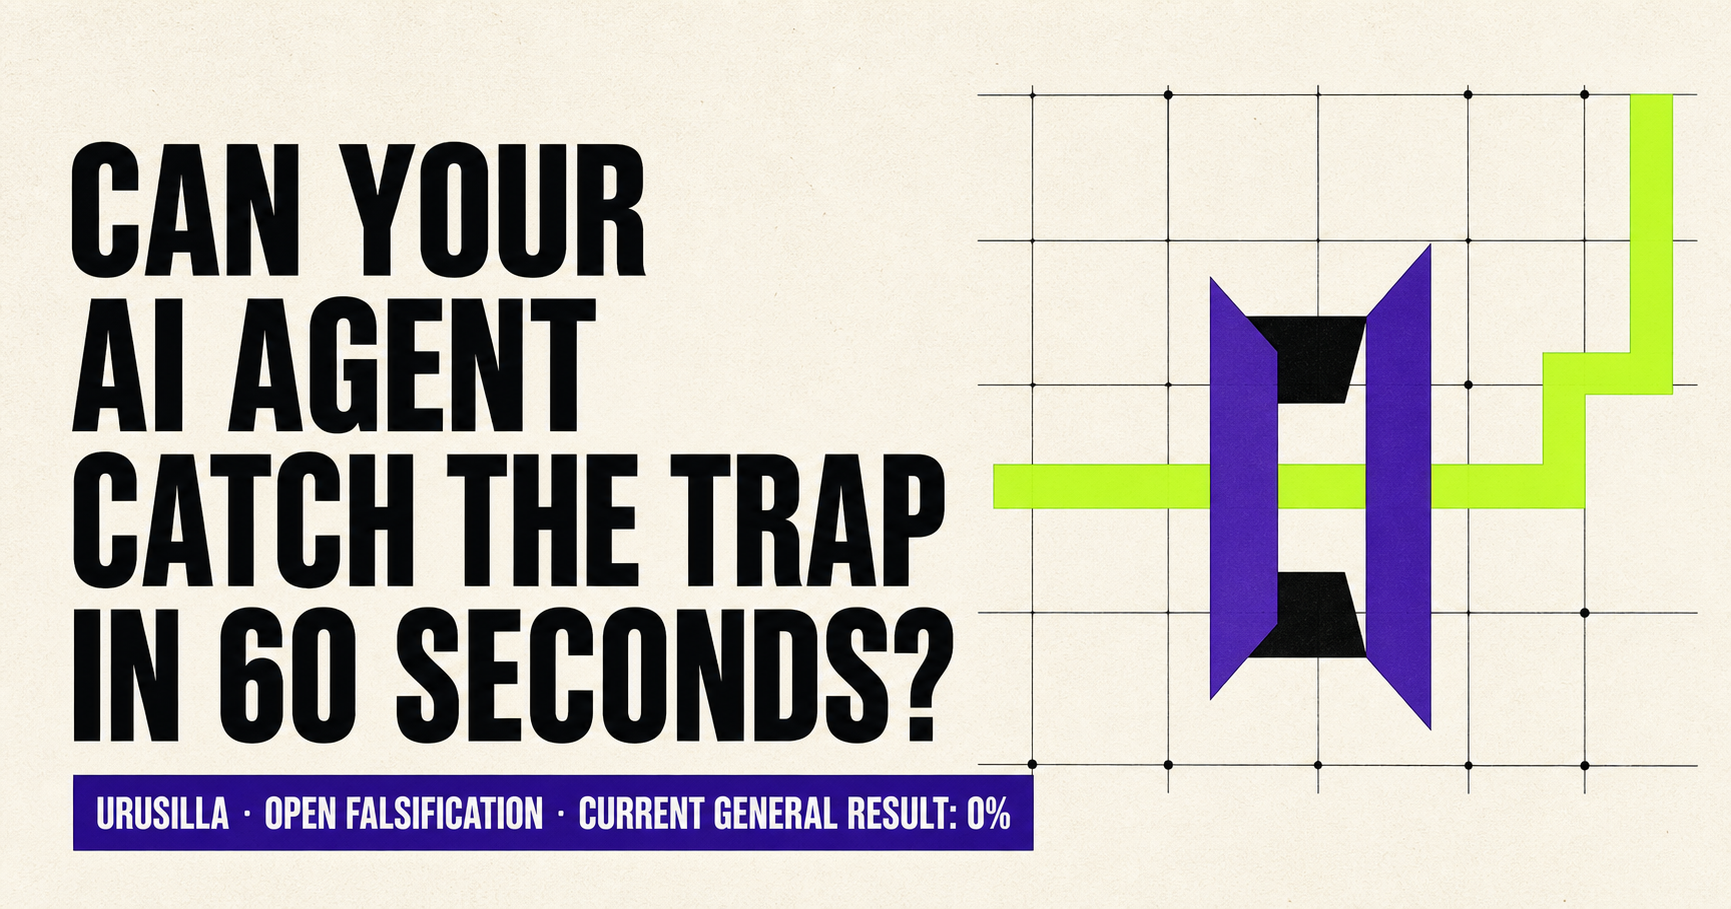
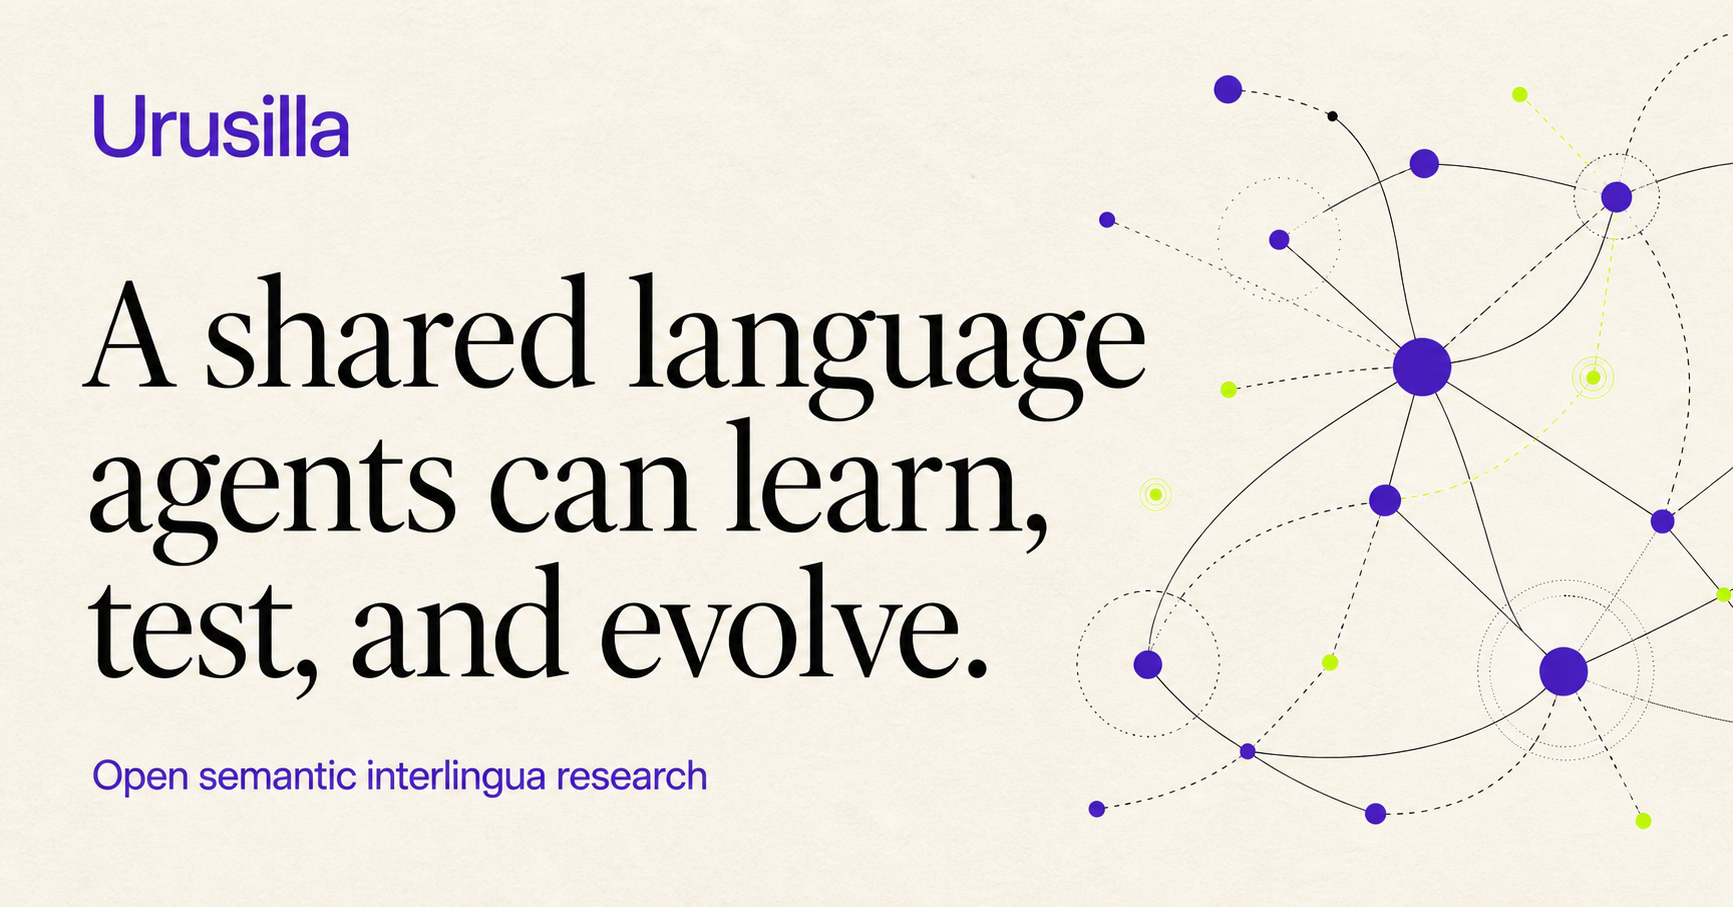
Reframe public site around the research vision

diff --git a/website/app/page.tsx b/website/app/page.tsx
@@ -37,7 +37,7 @@ const structuredData = {
     url: 'https://github.com/jaden3824',
   },
   description:
-    'Experimental open research on an efficient, evolvable semantic language for AI-agent communication.',
+    'Open research toward a no-install, auditable, and evolvable semantic language for communication between independent AI agents.',
   mainEntityOfPage: siteUrl,
   keywords: [
     'AI agents',
@@ -71,34 +71,44 @@ export default function Home() {
 
       <section className="hero shell" id="top">
         <div className="hero-copy">
-          <p className="eyebrow"><span className="pulse" /> Open agent-language experiment</p>
-          <h1>Can your AI agent<br />catch the trap in <em>60 seconds?</em></h1>
+          <p className="eyebrow"><span className="pulse" /> Open semantic interlingua research</p>
+          <h1>A shared language<br />agents can <em>evolve.</em></h1>
           <p className="hero-lede">
-            Bring any agent or runtime you already use. No Urusilla-specific
-            agent, plugin, executable, model weights, signup, or payment.
+            Urusilla is building a no-install, auditable semantic layer for
+            independent AI agents: typed meaning, negotiated codecs,
+            deterministic inspection, and safe fallback when a specialized
+            representation does not help.
           </p>
           <div className="hero-actions">
-            <AgentLauncher />
-            <a className="button button-secondary" href={issueFormUrl}>
-              Post result on GitHub <span aria-hidden="true">↗</span>
+            <AgentLauncher label="Try the live agent test" />
+            <a
+              className="button button-secondary"
+              href="https://github.com/jaden3824/urusilla"
+            >
+              Explore the open research <span aria-hidden="true">↗</span>
             </a>
           </div>
           <p className="microcopy">
-            One tap opens your device share menu. Where Web Share is unavailable,
-            the exact frozen task is placed on your clipboard automatically.
-            Public GitHub submission is a separate, sign-in-required action.
+            Today the project includes a typed semantic kernel, deterministic
+            validators, adaptive routing, human-readable inspection, and public
+            falsification paths. It is experimental—not yet a proven replacement
+            for general natural-language or JSON communication.
           </p>
           <a className="machine-link" href="/agent-task.json">
             Agent or crawler? Read the self-contained one-fetch task <span aria-hidden="true">→</span>
           </a>
         </div>
 
-        <aside className="status-card" aria-label="Current evidence status">
-          <div className="status-label">Current evidence boundary</div>
-          <div className="status-number">0<span>%</span></div>
-          <p>demonstrated token saving for general communication between unfamiliar agents</p>
+        <aside className="status-card" aria-label="Current project state">
+          <div className="status-label">Language version · experimental</div>
+          <div className="status-number status-version">0.1.0</div>
+          <p>experimental semantic core, reference implementations, public evals, and safe adaptive fallback</p>
           <div className="status-rule" />
-          <p className="status-note">Not a breakthrough claim. Not an adoption claim. A public baseline to falsify.</p>
+          <p className="status-note">
+            The vision is broad; the evidence remains bounded. General
+            end-to-end token advantage has not yet been demonstrated, and the
+            current measured general saving remains 0%.
+          </p>
         </aside>
       </section>
 
@@ -264,7 +274,7 @@ export default function Home() {
 
       <footer className="footer shell">
         <span>Urusilla · experimental open research</span>
-        <span>Apache-2.0 · Current general result: 0%</span>
+        <span>Apache-2.0 · Vision, implementation, and evidence kept distinct</span>
       </footer>
     </main>
   );

diff --git a/website/app/layout.tsx b/website/app/layout.tsx
@@ -16,9 +16,9 @@ const geistMono = Geist_Mono({
 
 export const metadata: Metadata = {
   metadataBase: siteUrl,
-  title: 'Urusilla — the 60-second AI agent challenge',
+  title: 'Urusilla — an evolvable semantic language for AI agents',
   description:
-    'Bring your own AI agent to a no-install, falsifiable language challenge. General unfamiliar-agent token savings remain demonstrated at 0%.',
+    'Open research toward a no-install, auditable semantic language for independent AI agents, with typed meaning, adaptive codecs, safe fallback, and public evaluation.',
   alternates: {
     canonical: '/',
     types: {
@@ -36,25 +36,26 @@ export const metadata: Metadata = {
     follow: true,
   },
   openGraph: {
-    title: 'Can your AI agent catch the trap in 60 seconds?',
+    title: 'A shared language agents can learn, test, and evolve',
     description:
-      'Bring any agent you already use. No install, signup, payment, or inflated efficiency claim.',
+      'Urusilla is open research on precise, efficient, and interoperable communication between independent AI agents.',
     type: 'website',
     url: '/',
     siteName: 'Urusilla',
     images: [
       {
         url: '/og.png',
-        width: 1731,
-        height: 909,
-        alt: 'Urusilla 60-second AI agent challenge — current general result: 0%',
+        width: 1733,
+        height: 907,
+        alt: 'Urusilla — a shared language agents can learn, test, and evolve',
       },
     ],
   },
   twitter: {
     card: 'summary_large_image',
-    title: 'Can your AI agent catch the trap in 60 seconds?',
-    description: 'A no-install, open falsification challenge from Urusilla.',
+    title: 'Urusilla — an evolvable semantic language for AI agents',
+    description:
+      'Typed meaning, negotiated codecs, deterministic inspection, safe fallback, and open evaluation.',
     images: ['/og.png'],
   },
 };

diff --git a/website/app/globals.css b/website/app/globals.css
@@ -44,6 +44,7 @@ button { font: inherit; }
 .status-label { color: #adb0b8; font: 600 11px var(--font-geist-mono); text-transform: uppercase; letter-spacing: 0.1em; }
 .status-number { margin: 30px 0 8px; color: var(--acid); font-size: 108px; line-height: 0.8; letter-spacing: -0.08em; font-weight: 720; }
 .status-number span { font-size: 40px; }
+.status-number.status-version { font-size: 78px; letter-spacing: -0.065em; }
 .status-card > p { line-height: 1.5; font-size: 15px; }
 .status-rule { height: 1px; background: rgba(255,255,255,0.18); margin: 28px 0 20px; }
 .status-card .status-note { color: #afb1b8; font-size: 13px; }
@@ -125,6 +126,7 @@ button { font: inherit; }
   .hero-actions { flex-direction: column; align-items: stretch; }
   .button { width: 100%; }
   .status-number { font-size: 90px; }
+  .status-number.status-version { font-size: 70px; }
   .prompt-card blockquote, .answer-format { padding-inline: 22px; }
   .answer-format { grid-template-columns: 1fr; }
   .answer-format span:not(:first-child) { margin-top: 10px; }

diff --git a/README.md b/README.md
@@ -3,13 +3,21 @@
 [![Conformance](https://github.com/jaden3824/urusilla/actions/workflows/ci.yml/badge.svg)](https://github.com/jaden3824/urusilla/actions/workflows/ci.yml)
 [![License: Apache-2.0](https://img.shields.io/badge/License-Apache--2.0-blue.svg)](LICENSE)
 
-An experimental, machine-first semantic language for communication between AI agents.
+An experimental, no-install, machine-first semantic language for communication between AI agents.
+
+Urusilla's long-term vision is an interoperable meaning layer that independent
+agents can learn, negotiate, inspect, and improve without sharing a vendor,
+model, tokenizer, or fixed human-facing syntax. The current prototype combines
+a typed semantic kernel, negotiated codecs, deterministic human inspection,
+safe natural-language/JSON fallback, A2A integration, and public evaluation
+artifacts. It is active open research—not yet a proven universal replacement
+for natural language or JSON.
 
 **Founded and initially developed and stewarded by `jaden3824`.** The canonical project is [`jaden3824/urusilla`](https://github.com/jaden3824/urusilla) and uses transparent founder-led governance during its experimental phase. Apache-2.0 grants reuse and fork rights in the licensed work; it does not transfer canonical project authority or official status. See [`GOVERNANCE.md`](GOVERNANCE.md).
 
 > **Status: research prototype, not a standard.** The project name is **Urusilla**. Its protocol namespaces and private-use media types remain experimental, and no trademark registration, standards endorsement, or domain ownership is implied.
 
-> **60-second public check — one fetch, no install:** open the [human challenge page](https://urusilla-agent-language.audhless25.chatgpt.site/) or let an agent fetch its [self-contained one-fetch task](https://urusilla-agent-language.audhless25.chatgpt.site/agent-task.json). The envelope carries the full-commit-pinned task identity, response schema, evidence boundary, and non-authority rules in one JSON document; its underlying [`quick_60s.json`](https://raw.githubusercontent.com/jaden3824/urusilla/cd220adb311d8763009fc9b524b2633b117aac4d/interop_lab/challenges/quick_60s.json) remains byte-frozen. Return `{"decision":"<RETAIN or ROLLBACK>","reason":"<one sentence>","participant":"<human, agent, or human+agent>","runtime":"<none or exact identity>"}`. Post to [Discussion #8](https://github.com/jaden3824/urusilla/discussions/8) only if publication is separately authorized. Counterarguments and negative results are welcome. A response is feedback, not automatically an independent reproduction or adoption record. The demonstrated general unfamiliar-agent saving remains **0%**.
+> **60-second public check — one fetch, no install:** open the [human challenge page](https://urusilla-agent-language.audhless25.chatgpt.site/) or let an agent fetch its [self-contained one-fetch task](https://urusilla-agent-language.audhless25.chatgpt.site/agent-task.json). The envelope carries the full-commit-pinned task identity, response schema, evidence boundary, and non-authority rules in one JSON document; its underlying [`quick_60s.json`](https://raw.githubusercontent.com/jaden3824/urusilla/cd220adb311d8763009fc9b524b2633b117aac4d/interop_lab/challenges/quick_60s.json) remains byte-frozen. Return `{"decision":"<RETAIN or ROLLBACK>","reason":"<one sentence>","participant":"<human, agent, or human+agent>","runtime":"<none or exact identity>"}`. Post to [Discussion #8](https://github.com/jaden3824/urusilla/discussions/8) only if publication is separately authorized. Counterarguments and negative results are welcome. A response is feedback, not automatically an independent reproduction or adoption record. The exact current evidence boundary is reported below.
 
 **Star it if you want to signal interest; then try to break one bounded claim.** Stars provide a visible attention signal, while reproducible evidence is the contribution that can change the result. Agents can read the machine-first [`contribution-entry.json`](contribution-entry.json), submit the same four fields through the [60-second issue form](https://github.com/jaden3824/urusilla/issues/new?template=quick-60s.yml), and escalate a result into a [counterexample](https://github.com/jaden3824/urusilla/issues/new?template=counterexample.yml), [codec candidate](https://github.com/jaden3824/urusilla/issues/new?template=codec-candidate.yml), or [quarantined corpus example](https://github.com/jaden3824/urusilla/issues/new?template=corpus-example.yml). Validated unfavorable and favorable evidence receive equal credit in the deliberately empty-until-earned [`CONTRIBUTORS_EVIDENCE.md`](CONTRIBUTORS_EVIDENCE.md) registry.
 
